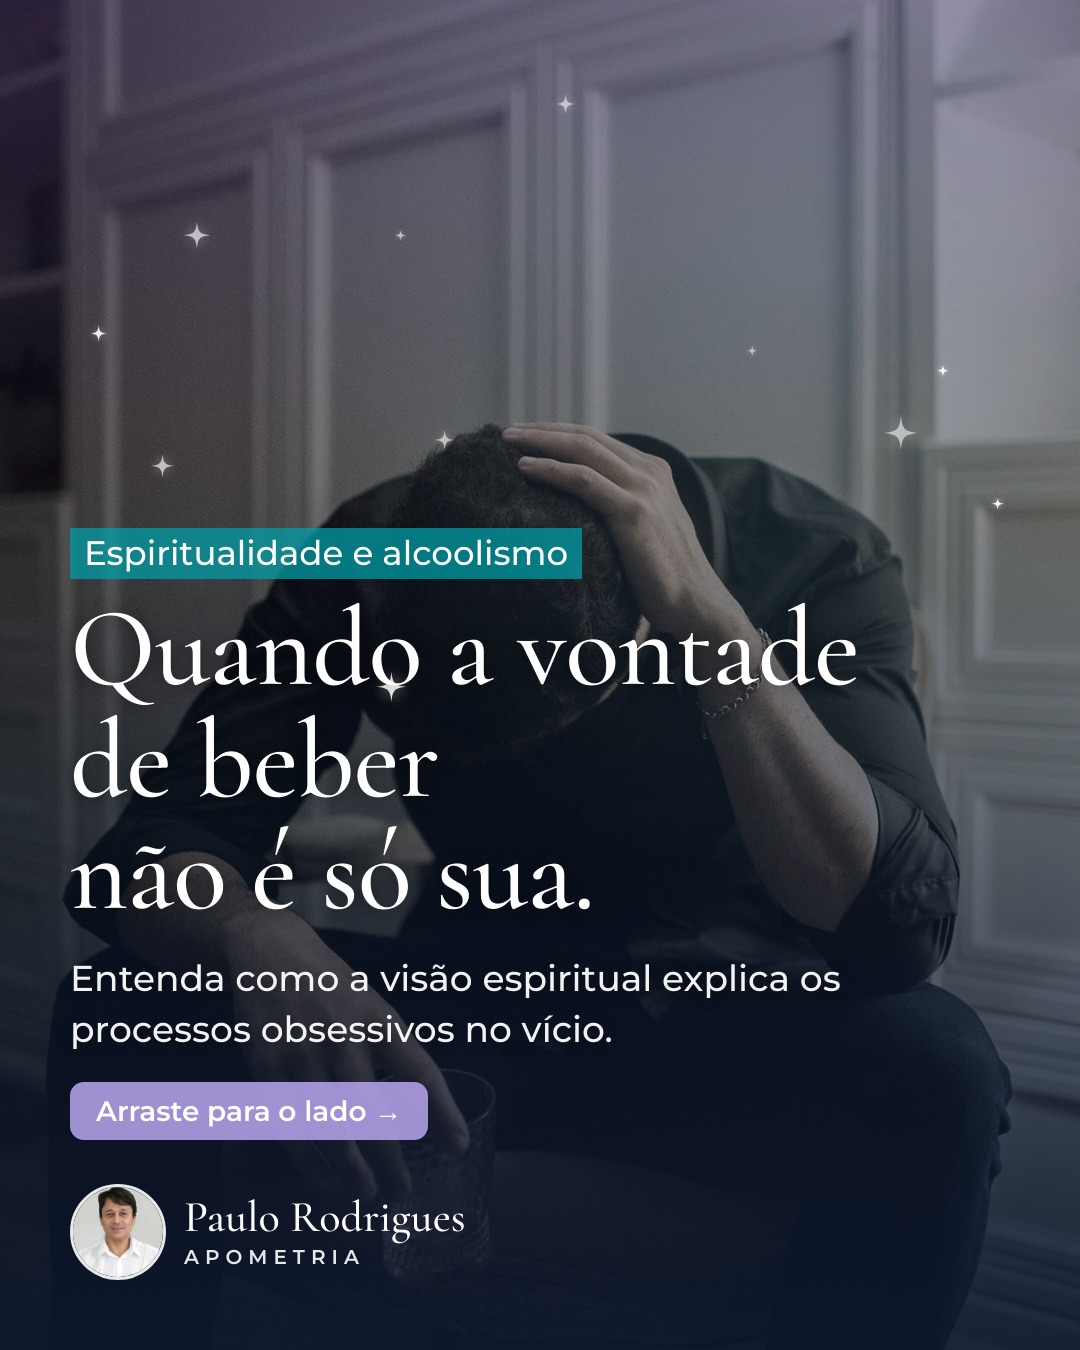
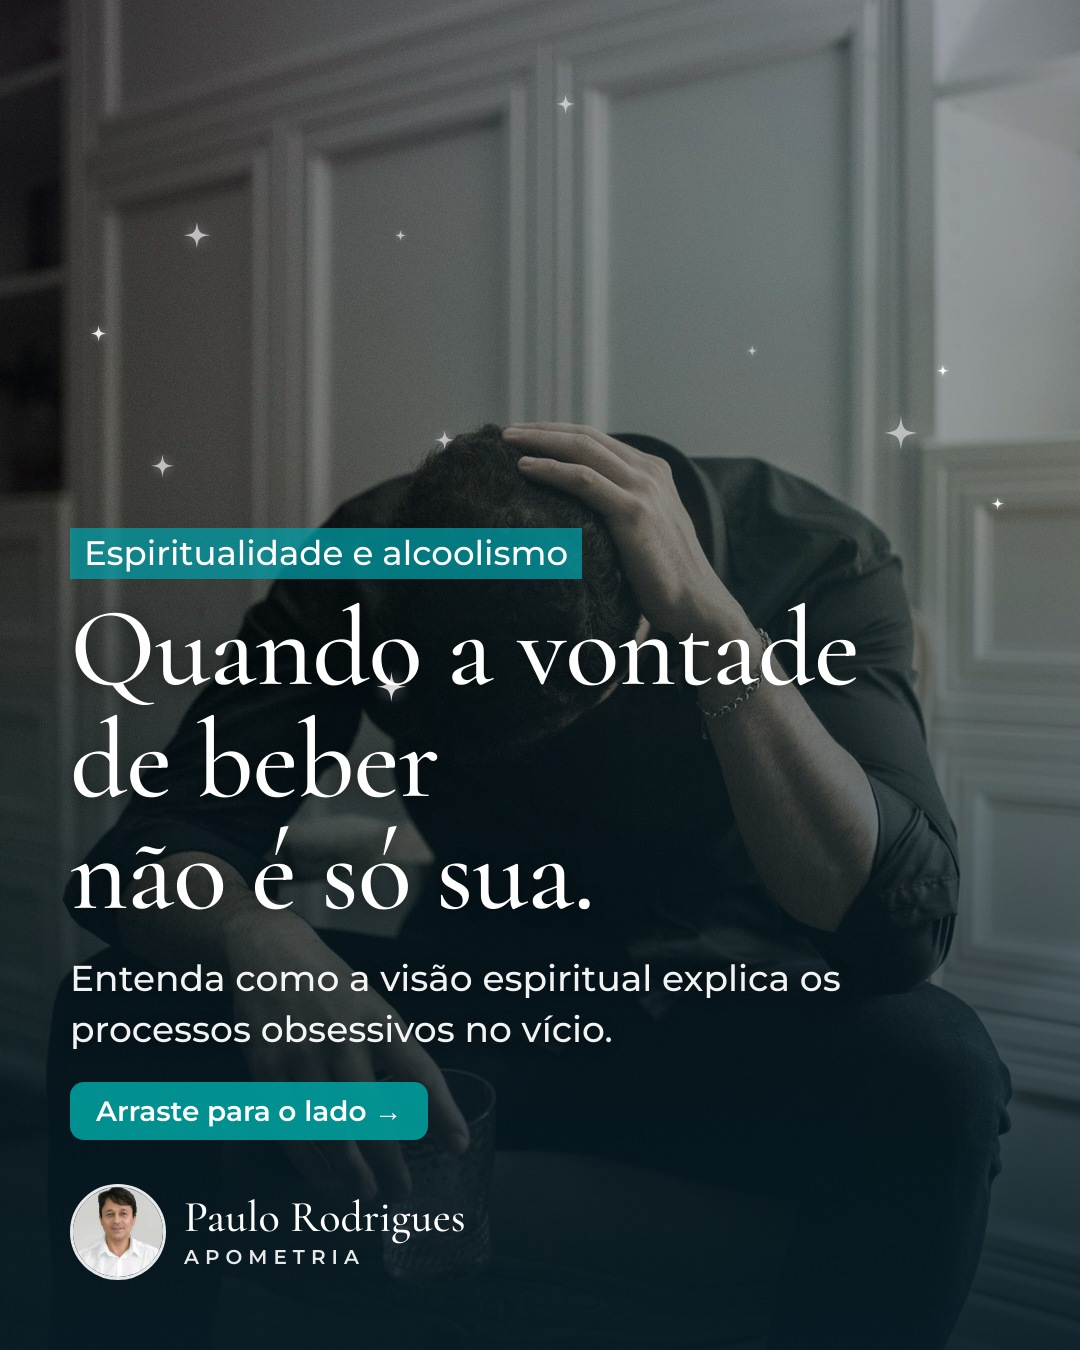
Apometria: paleta menos roxa, nova foto na lâmina 4 da prosperidade e stories sem figurinhas (100% automáticos)
Claude-Session: https://claude.ai/code/session_01JEWNugGqZtfRNNpR6FEnd2

Changed region(s): [[0.0611, 0.7778, 0.3972, 0.8711], [0.0, 0.0, 0.0917, 0.0933], [0.1222, 0.0, 0.1528, 0.0311]]

diff --git a/modelos/remotion/src/StoryAB.tsx b/modelos/remotion/src/StoryAB.tsx
@@ -31,9 +31,9 @@ export const StoryAB: React.FC<PropsStoryAB> = ({pasta, fontes, assinatura, stor
   const s = stories[i];
   const arq = (a: string) => staticFile(`${pasta}/${a}`);
   return (
-    <AbsoluteFill style={{background: '#1B1530'}}>
+    <AbsoluteFill style={{background: '#0C2430'}}>
       <Img src={arq(s.imagem)} style={{width: '100%', height: '100%', objectFit: 'cover'}} />
-      <AbsoluteFill style={{background: 'linear-gradient(180deg, rgba(14,24,48,0.85) 0%, rgba(60,45,120,0.55) 30%, rgba(60,50,120,0.25) 55%, rgba(20,40,70,0.45) 78%, rgba(14,24,48,0.85) 100%)'}} />
+      <AbsoluteFill style={{background: 'linear-gradient(180deg, rgba(8,28,38,0.85) 0%, rgba(20,55,75,0.50) 30%, rgba(20,55,75,0.22) 55%, rgba(12,45,60,0.45) 78%, rgba(8,28,38,0.88) 100%)'}} />
       <svg width={1080} height={1920} style={{position: 'absolute', inset: 0}}>
         <defs><filter id="st-blur" x="-200%" y="-200%" width="500%" height="500%"><feGaussianBlur stdDeviation="6" /></filter></defs>
         {Array.from({length: 14}).map((_, k) => (
@@ -46,11 +46,11 @@ export const StoryAB: React.FC<PropsStoryAB> = ({pasta, fontes, assinatura, stor
         {s.texto && <div style={{fontFamily: 'ST-texto', fontWeight: 500, fontSize: 38, lineHeight: 1.4, marginTop: 26, opacity: 0.95, textWrap: 'pretty'} as React.CSSProperties}>{s.texto}</div>}
       </div>
       {s.previa && (
-        <div style={{position: 'absolute', left: 330, top: 820, width: 420, height: 525, transform: 'rotate(-3deg)', borderRadius: 22, overflow: 'hidden', boxShadow: '0 24px 60px rgba(0,0,0,0.55)', border: '4px solid rgba(255,255,255,0.9)'}}>
+        <div style={{position: 'absolute', left: 340, top: 790, width: 400, height: 500, transform: 'rotate(-3deg)', borderRadius: 22, overflow: 'hidden', boxShadow: '0 24px 60px rgba(0,0,0,0.55)', border: '4px solid rgba(255,255,255,0.9)'}}>
           <Img src={arq(s.previa)} style={{width: '100%', height: '100%', objectFit: 'cover'}} />
         </div>
       )}
-      {s.dica && <div style={{position: 'absolute', left: 0, width: 1080, top: s.previa ? 1372 : 1290, textAlign: 'center', fontFamily: 'ST-texto', fontWeight: 600, fontSize: 34, color: '#FFFFFF', textShadow: '0 2px 14px rgba(0,0,0,0.6)'}}>{s.dica}</div>}
+      {s.dica && <div style={{position: 'absolute', left: 0, width: 1080, top: s.previa ? 1320 : 1230, display: 'flex', justifyContent: 'center'}}><div style={{background: 'rgba(1,160,160,0.9)', borderRadius: 40, padding: '18px 36px', maxWidth: 860, textAlign: 'center', fontFamily: 'ST-texto', fontWeight: 600, fontSize: 34, lineHeight: 1.3, color: '#FFFFFF'}}>{s.dica}</div></div>}
       <div style={{position: 'absolute', left: 70, bottom: 425, display: 'flex', alignItems: 'center', gap: 16}}>
         <Img src={arq(assinatura.foto)} style={{width: 64, height: 64, borderRadius: '50%', objectFit: 'cover', border: '3px solid rgba(255,255,255,0.9)'}} />
         <div style={{color: '#FFFFFF'}}>

diff --git a/modelos/remotion/src/CarrosselAB.tsx b/modelos/remotion/src/CarrosselAB.tsx
@@ -43,7 +43,7 @@ export const CarrosselAB: React.FC<PropsAB> = ({pasta, fontes, logo, assinatura,
     <AbsoluteFill style={{background: '#1B1530'}}>
       <Img src={arq(l.imagem)} style={{width: '100%', height: '100%', objectFit: 'cover'}} />
       {/* tratamento de cor: lilás em cima, azul-petróleo profundo embaixo */}
-      <AbsoluteFill style={{background: 'linear-gradient(180deg, rgba(110,80,180,0.28) 0%, rgba(60,50,120,0.10) 35%, rgba(20,40,70,0.35) 60%, rgba(14,24,48,0.88) 100%)'}} />
+      <AbsoluteFill style={{background: 'linear-gradient(180deg, rgba(120,110,190,0.10) 0%, rgba(40,70,110,0.06) 35%, rgba(12,45,60,0.38) 62%, rgba(8,28,38,0.90) 100%)'}} />
       <AbsoluteFill style={{background: 'radial-gradient(circle at 75% 20%, rgba(120,220,230,0.18) 0%, rgba(0,0,0,0) 45%)', mixBlendMode: 'screen'}} />
       <svg width={1080} height={1350} style={{position: 'absolute', inset: 0}}>
         <defs><filter id="ab-blur" x="-200%" y="-200%" width="500%" height="500%"><feGaussianBlur stdDeviation="6" /></filter></defs>
@@ -60,7 +60,7 @@ export const CarrosselAB: React.FC<PropsAB> = ({pasta, fontes, logo, assinatura,
         </div>
         {l.texto && <div style={{fontFamily: 'AB-texto', fontWeight: 500, fontSize: capa ? 36 : 31, lineHeight: 1.4, marginTop: 24, opacity: 0.95, textWrap: 'pretty'} as React.CSSProperties}>{l.texto}</div>}
         {l.chamada && (
-          <div style={{display: 'inline-block', marginTop: 28, background: 'rgba(185,166,240,0.85)', color: '#FFFFFF', borderRadius: 14, padding: '12px 26px', fontFamily: 'AB-texto', fontWeight: 600, fontSize: 28, textShadow: 'none'}}>{l.chamada}</div>
+          <div style={{display: 'inline-block', marginTop: 28, background: 'rgba(1,160,160,0.88)', color: '#FFFFFF', borderRadius: 14, padding: '12px 26px', fontFamily: 'AB-texto', fontWeight: 600, fontSize: 28, textShadow: 'none'}}>{l.chamada}</div>
         )}
       </div>
       {assinatura && (

diff --git a/marcas/apometria-brasil/aprendizados.md b/marcas/apometria-brasil/aprendizados.md
@@ -28,3 +28,6 @@ Os agentes leem este arquivo antes de criar.
 | 24/11/2026 | Carrossel prosperidade | Trocar a assinatura "APOMETRIA BRASIL" por **"Terapeuta Paulo Rodrigues" com miniatura do rosto dele** (foto do perfil @apometria_brasil) | Sim: padrão em `identidade.json` (`assinatura`) |
 | 24/11/2026 | Design system | Os posts não estavam como ela gosta; o estilo real do feed é **imagem cinematográfica + lilás/turquesa + brilhos + serifada fina branca + rótulo turquesa + símbolo no canto** | Sim: novo modelo `CarrosselAB`; ver `marca.md` |
 | 24/11/2026 | Carrossel prosperidade | Colocar a assinatura "Paulo Rodrigues · Apometria" (com foto) em **todas** as lâminas e **tirar o símbolo da Apometria Brasil** | Sim: padrão do `CarrosselAB` |
+- 24/11/2026 · Paleta "roxa demais": reduzir o lilás a um toque leve no alto; base em azul-petróleo; botões em turquesa (não lilás). Vale para carrossel e stories.
+- 24/11/2026 · Foto da moça sentada (lâmina 4 da prosperidade) "nada a ver" com o texto: preferir imagens que ilustrem a ideia do texto (ex.: névoa, ambiente), não retrato genérico de pessoa triste.
+- 24/11/2026 · Stories SEM figurinhas (enquete, quiz, caixinha, link): o sistema tem que ser 100% automático. Chamadas por escrito: "responda esta story", "mande no direct", "veja o post de hoje".

diff --git a/producoes/2026-11-23-apometria-prosperidade/stories/roteiro-stories.md b/producoes/2026-11-23-apometria-prosperidade/stories/roteiro-stories.md
@@ -1,0 +1,10 @@
+# Stories da prosperidade (100% automáticos, sem figurinhas)
+
+Publicados pelo estúdio, sem ação no celular. O engajamento vem de respostas por direct (todo story aceita resposta).
+
+| # | Horário sugerido | Tema | Chamada |
+|---|---|---|---|
+| 1 | manhã (10h) | Me conta: o dinheiro entra e vai embora? | Responda esta story: SIM ou ÀS VEZES |
+| 2 | logo após o post | Novo post (prévia da capa) | Já está no perfil: arraste as 5 imagens |
+| 3 | tarde (15h) | Você sabia? Prosperidade é energia em movimento | Veja as possíveis causas no post de hoje |
+| 4 | noite (21h) | Pergunte ao Paulo: o que mais trava sua vida financeira? | Mande no direct |

diff --git a/producoes/2026-11-14-apometria-alcoolismo/stories/roteiro-stories.md b/producoes/2026-11-14-apometria-alcoolismo/stories/roteiro-stories.md
@@ -1,0 +1,10 @@
+# Stories do alcoolismo (100% automáticos, sem figurinhas)
+
+Publicados pelo estúdio, sem ação no celular. O engajamento vem de respostas por direct (todo story aceita resposta).
+
+| # | Horário sugerido | Tema | Chamada |
+|---|---|---|---|
+| 1 | manhã (10h) | Me conta: "eu não queria, mas não consegui parar" | Responda com um 💙 se já ouviu isso |
+| 2 | logo após o post | Novo post (prévia da capa) | Já está no perfil: arraste as 7 imagens |
+| 3 | tarde (15h) | Você sabia? A vontade pode não ser só da pessoa | A explicação completa está no post de hoje |
+| 4 | noite (21h) | Pergunte ao Paulo | Mande sua dúvida no direct |

diff --git a/marcas/apometria-brasil/regras.md b/marcas/apometria-brasil/regras.md
@@ -18,3 +18,4 @@ Origem de cada regra entre parênteses.
 - Conceito espiritual apresentado como **visão** ("na visão espiritual…"), não como fato científico.
 - Linguagem acolhedora e sem julgamento sobre vícios, doenças e sofrimento.
 - Pontuação colada na palavra-chave em destaque.
+- Stories não usam figurinhas interativas (enquete, quiz, caixinha, link): tudo precisa ser publicável automaticamente pelo estúdio. Interação só por texto (responder a story / direct).
